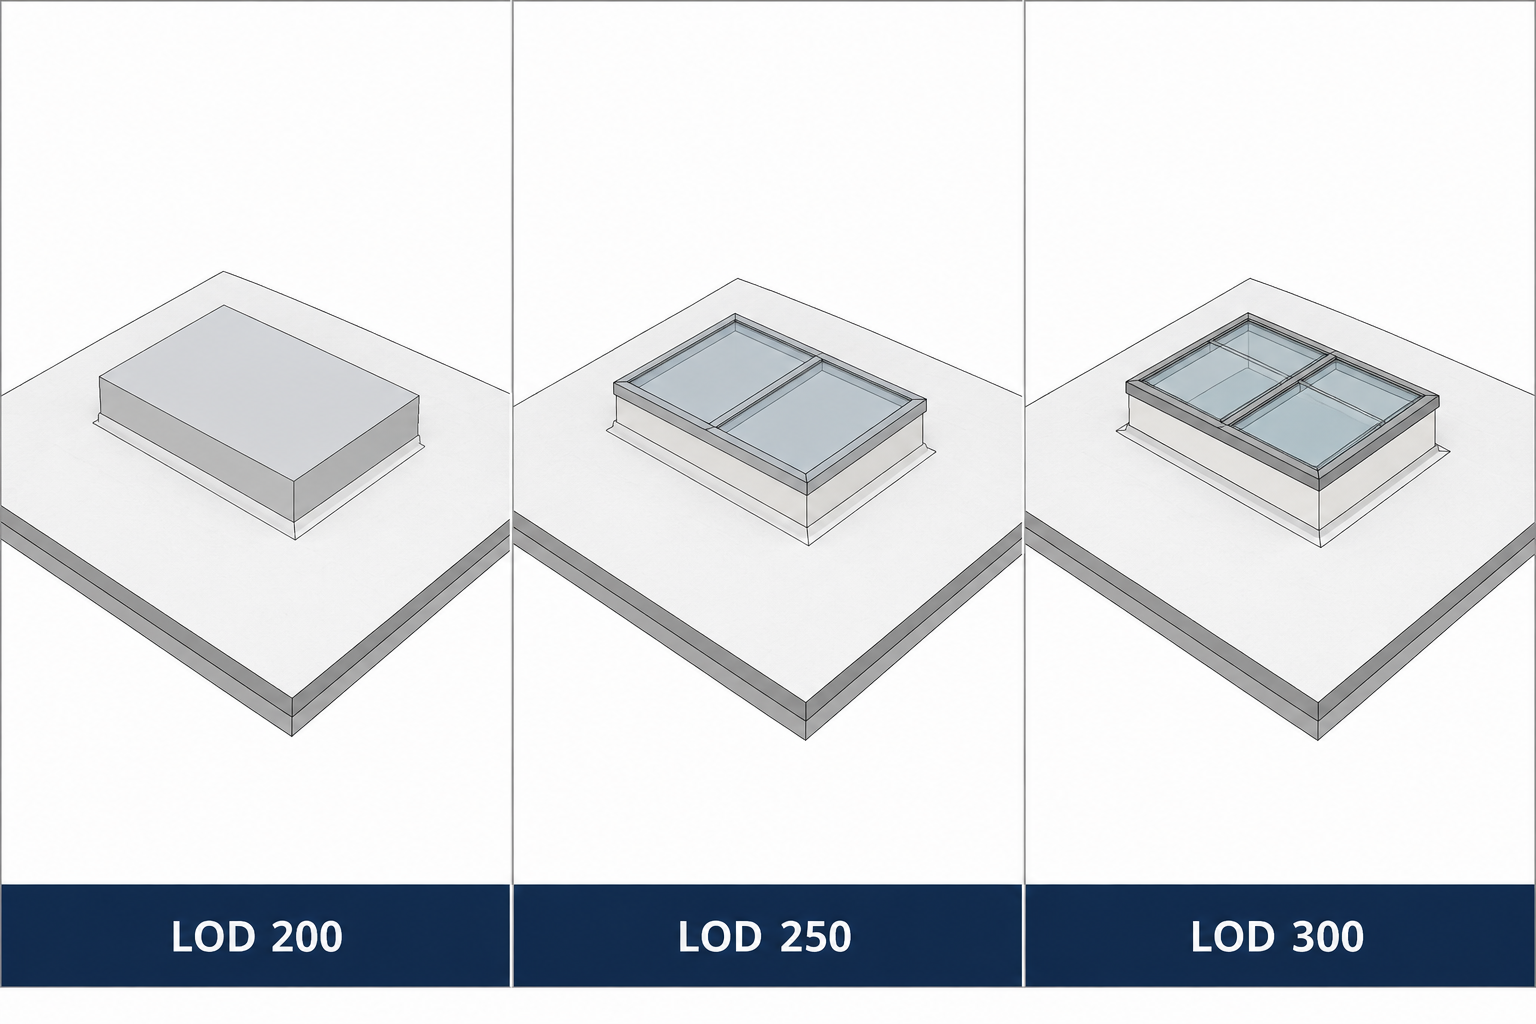
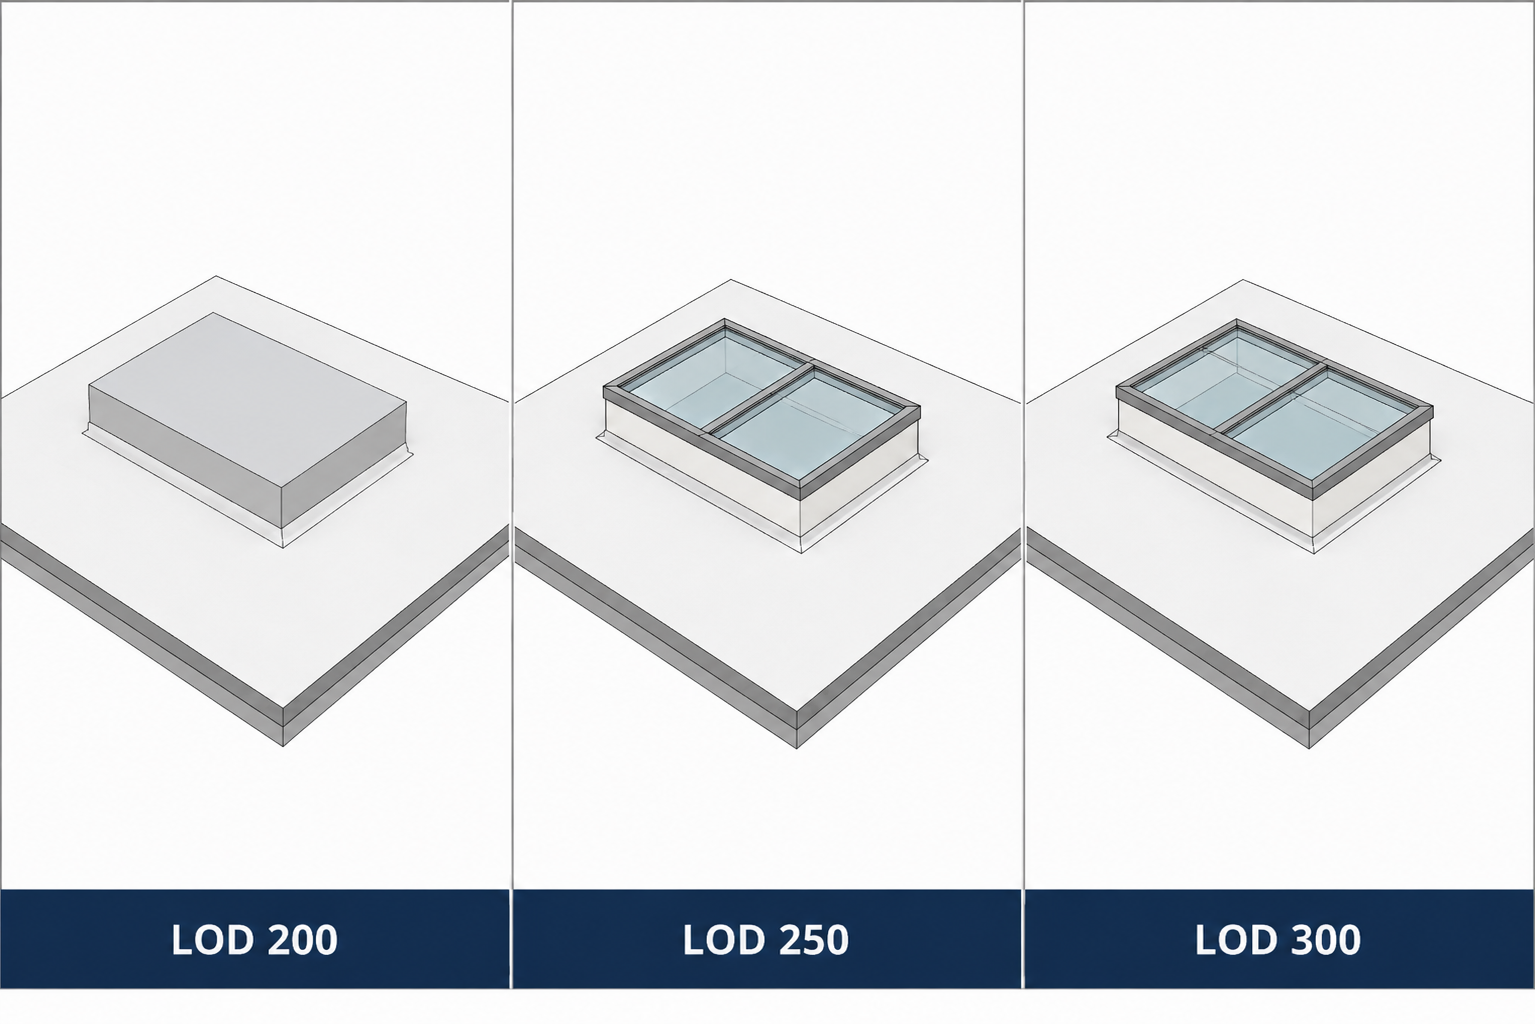
updated matrix coloring and images

diff --git a/index.html b/index.html
@@ -304,8 +304,8 @@ body {
 
 <tr class="cath"><td colspan="4">Interior elements</td></tr>
 <tr class="erow"><td class="cel" data-slug="casework"><div class="cel-inner"><span class="caret"><i class="ti ti-chevron-right"></i></span>Built-in Cabinetry / Counters</div></td><td class="c200">Generic 3D elements; approximate size; verified location.</td><td class="c250 c250-200">Generic 3D elements; approximate size; verified location.</td><td class="c300">Specific/custom 3D elements; verified size/placement; doors, drawers, hardware detailed.</td></tr>
-<tr class="erow"><td class="cel" data-slug="appliances"><div class="cel-inner"><span class="caret"><i class="ti ti-chevron-right"></i></span>Major Appliances</div></td><td class="c200">Generic 3D elements; approximate type and size; verified location.</td><td class="c250 c250-unique">Generic 3D elements; approximate type and size; verified location.</td><td class="c300">Specific 3D elements; verified type, size, placement, and configuration.</td></tr>
-<tr class="erow"><td class="cel" data-slug="plumbing"><div class="cel-inner"><span class="caret"><i class="ti ti-chevron-right"></i></span>Plumbing Fixtures</div></td><td class="c200">Generic 3D elements; approximate type and size; verified location.</td><td class="c250 c250-unique">Generic 3D elements; approximate type and size; verified location.</td><td class="c300">Specific 3D elements; verified size, placement, and configuration.</td></tr>
+<tr class="erow"><td class="cel" data-slug="appliances"><div class="cel-inner"><span class="caret"><i class="ti ti-chevron-right"></i></span>Major Appliances</div></td><td class="c200">Generic 3D elements; approximate type and size; verified location.</td><td class="c250 c250-200">Generic 3D elements; approximate type and size; verified location.</td><td class="c300">Specific 3D elements; verified type, size, placement, and configuration.</td></tr>
+<tr class="erow"><td class="cel" data-slug="plumbing"><div class="cel-inner"><span class="caret"><i class="ti ti-chevron-right"></i></span>Plumbing Fixtures</div></td><td class="c200">Generic 3D elements; approximate type and size; verified location.</td><td class="c250 c250-200">Generic 3D elements; approximate type and size; verified location.</td><td class="c300">Specific 3D elements; verified size, placement, and configuration.</td></tr>
 <tr class="erow"><td class="cel" data-slug="wall-elements"><div class="cel-inner"><span class="caret"><i class="ti ti-chevron-right"></i></span>Attached wall elements (shelves, mirrors)</div></td><td class="c200"><span class="cexc">Excluded from LOD 200.</span></td><td class="c250 c250-unique">Modeled if fixed; represented with generic 3D components at approximate size and location.</td><td class="c300">Specific/custom 3D components; verified size, placement, and detailing.</td></tr>
 
 <tr class="cath"><td colspan="4">Exterior elements</td></tr>
@@ -375,6 +375,23 @@ body {
   img.addEventListener('load',  show);
   img.addEventListener('error', function() { img.style.display = 'none'; });
   if (img.complete && img.naturalWidth > 0) show();
+});
+
+// Auto-match the LOD 250 cell color when its definition is identical to LOD 200 or LOD 300
+document.addEventListener('DOMContentLoaded', function() {
+  function norm(td) { return td ? td.textContent.replace(/\s+/g, ' ').trim().toLowerCase() : null; }
+  document.querySelectorAll('tr.erow').forEach(function(row) {
+    var c200 = row.querySelector('td.c200');
+    var c250 = row.querySelector('td.c250');
+    var c300 = row.querySelector('td.c300');
+    if (!c250) return;
+    var t250 = norm(c250);
+    if (!t250) return;
+    var match = (t250 === norm(c200)) ? 'c250-200' : (t250 === norm(c300)) ? 'c250-300' : null;
+    if (!match) return;
+    c250.classList.remove('c250-200', 'c250-300', 'c250-unique');
+    c250.classList.add(match);
+  });
 });
 
 // Build image expand rows from data-slug attributes